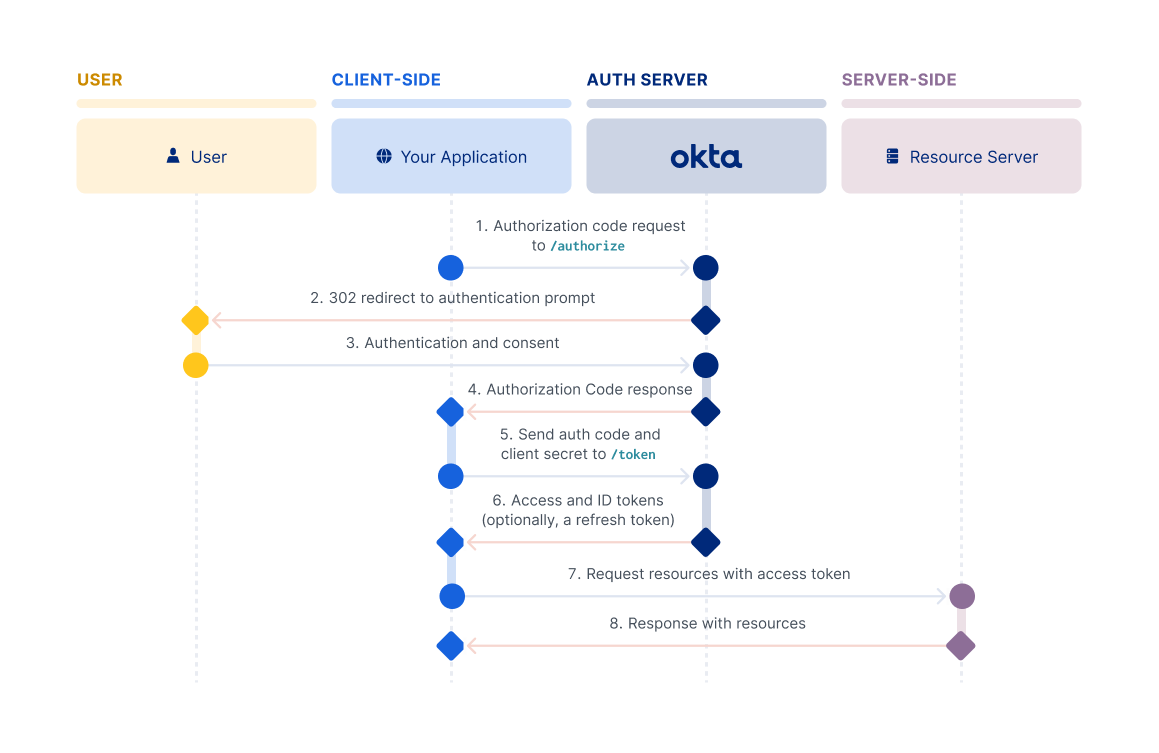
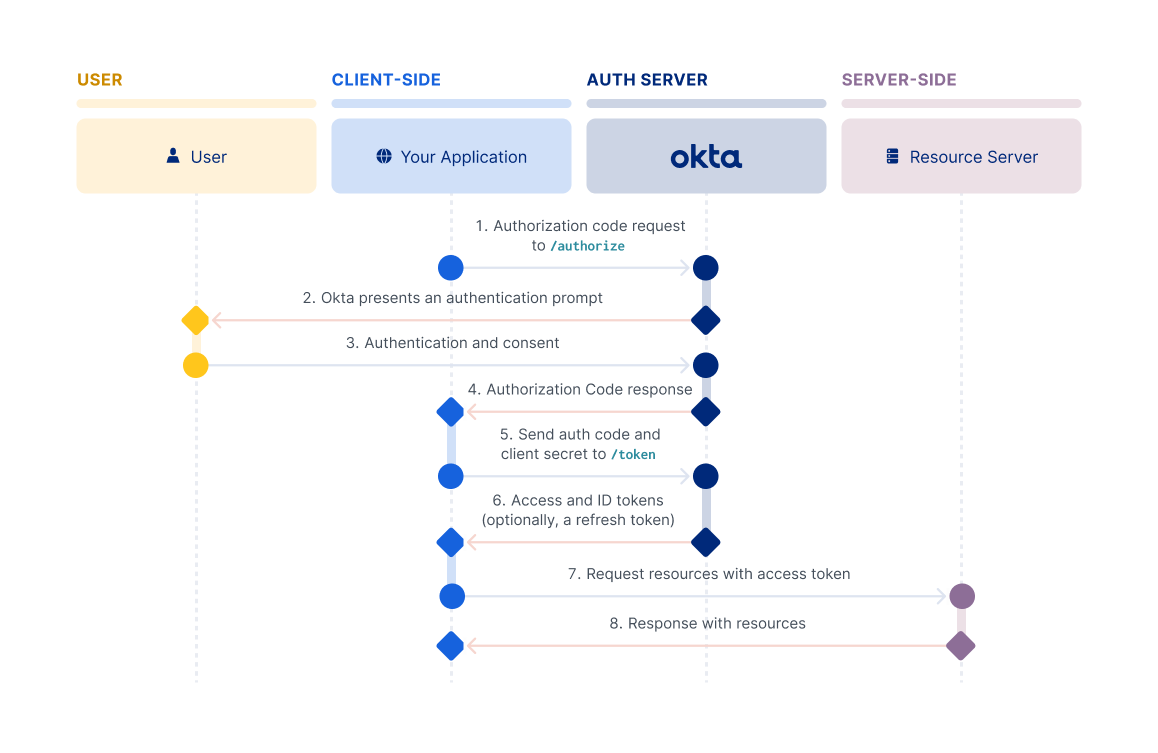
Corrected "302 redirect" steps in three flows

diff --git a/packages/@okta/vuepress-site/docs/guides/implement-grant-type/main/authcodepkce/flow-diagram.md b/packages/@okta/vuepress-site/docs/guides/implement-grant-type/main/authcodepkce/flow-diagram.md
@@ -36,12 +36,12 @@ app -> client: Response
  At a high level, the flow has the following steps:
 
 1. Your application (app) generates a code verifier followed by a code challenge. See [Create the proof key for code exchange](#create-the-proof-key-for-code-exchange).
-2. Your app directs the browser to the Okta sign-in page, along with the generated code challenge.
+2. Your app requests an authorization code from the authorization server (Okta). The request contains the generated code challenge.
 
-   Before implementing this redirect request to the authorization server (Okta), you need to [set up your app](#set-up-your-app) in Okta. See [Request an authorization code](#request-an-authorization-code).
+   Before implementing this redirect request to the authorization server, you need to [set up your app](#set-up-your-app) in Okta. See [Request an authorization code](#request-an-authorization-code).
 
-3. The authorization server (Okta) redirects the authentication prompt to the user.
-4. The user authenticates.
+3. Okta presents an authentication prompt (the Okta sign-in page) to the user's browser.
+4. The user authenticates with the authorization server and provides consent.
 
     For Okta to authenticate the user credentials, Okta needs user profile data.
     See [Add a user using Console](https://help.okta.com/okta_help.htm?id=ext-usgp-add-users), [Import Users](/docs/guides/password-import-inline-hook/), and the [Users API](/docs/reference/api/users/). Alternatively, you can [set up self-service registration](/docs/guides/oie-embedded-sdk-use-case-self-reg/) to allow users to register their membership with the app.

diff --git a/packages/@okta/vuepress-site/docs/guides/implement-grant-type/main/authcode/flow-diagram.md b/packages/@okta/vuepress-site/docs/guides/implement-grant-type/main/authcode/flow-diagram.md
@@ -32,12 +32,12 @@ app -> client: Response
 
 At a high level, this flow has the following steps:
 
-1. Your application (app) directs the browser to the Okta sign-in page.
+1. Your application (app) requests an authorization code from the authorization server (Okta).
 
-    Before implementing this redirect request to the authorization server (Okta), you need to [set up your app](#set-up-your-app) in Okta. See [Request an authorization code](#request-an-authorization-code).
+    Before implementing this redirect request to the authorization server, you need to [set up your app](#set-up-your-app) in Okta. See [Request an authorization code](#request-an-authorization-code).
 
-2. Okta redirects the user's browser to an authentication prompt (the Okta sign-in page).
-3. The user authenticates.
+2. Okta presents an authentication prompt (the Okta sign-in page) to the user's browser.
+3. The user authenticates with the authorization server and provides consent.
 
     For Okta to authenticate the user credentials, Okta needs user profile data.
     See [Add a user using Console](https://help.okta.com/okta_help.htm?id=ext-usgp-add-users), [Import Users](/docs/guides/password-import-inline-hook/), and the [Users API](/docs/reference/api/users/). Alternatively, you can [set up self-service registration](/docs/guides/oie-embedded-sdk-use-case-self-reg/) to allow users to register their membership with the app.

diff --git a/packages/@okta/vuepress-site/docs/guides/implement-grant-type/main/implicit/flow-diagram.md b/packages/@okta/vuepress-site/docs/guides/implement-grant-type/main/implicit/flow-diagram.md
@@ -32,11 +32,10 @@ At a high level, this flow has the following steps:
 
 1. Your application sends a request to the authorization server (Okta) for an access token.
 
-    Before implementing this redirect request to the authorization server (Okta), you need to [set up your app](#set-up-your-app) in Okta. See [Request for tokens](#request-for-tokens).
+    Before implementing this redirect request to the authorization server, you need to [set up your app](#set-up-your-app) in Okta. See [Request for tokens](#request-for-tokens).
 
-2. The authorization server redirects the user's browser to an authentication prompt (the Okta sign-in page).
-
-3. The user authenticates with the authorization server (Okta) and provides consent.
+2. The authorization server presents an authentication prompt (the Okta sign-in page) to the user's browser.
+3. The user authenticates with the authorization server and provides consent.
 
     For Okta to authenticate the user credentials, Okta needs user profile data.
     See [Add a user using the Admin Console](https://help.okta.com/okta_help.htm?id=ext-usgp-add-users), [Import Users](/docs/guides/password-import-inline-hook/), and the [Users API](/docs/reference/api/users/). Alternatively, you can [set up self-service registration](/docs/guides/oie-embedded-sdk-use-case-self-reg/) to allow users to register their membership with the app.
